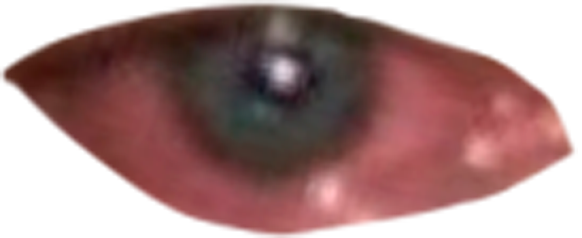
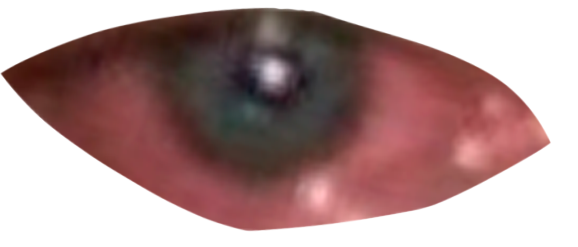
Finalización de filtro de ojos

diff --git a/Eye_filter/Crying_eyes.py b/Eye_filter/Crying_eyes.py
@@ -9,13 +9,15 @@ left_eye = cv2.imread("ojo_izq.png")
 right_eye = cv2.imread("ojo_der.png")
 _, frame = cap.read()
 rows, cols, _ = frame.shape
-nose_mask = np.zeros((rows, cols), np.uint8)
+l_eye_mask = np.zeros((rows, cols), np.uint8)
+r_eye_mask = np.zeros((rows, cols), np.uint8)
 # Loading Face detector
 detector = dlib.get_frontal_face_detector()
 predictor = dlib.shape_predictor("shape_predictor_68_face_landmarks.dat")
 while True:
     _, frame = cap.read()
-    nose_mask.fill(0)
+    l_eye_mask.fill(0)
+    r_eye_mask.fill(0)
     gray_frame = cv2.cvtColor(frame, cv2.COLOR_BGR2GRAY)
     faces = detector(frame)
     for face in faces:
@@ -26,44 +28,57 @@ while True:
         left_left_eye = (landmarks.part(42).x, landmarks.part(42).y)
         right_left_eye = (landmarks.part(45).x, landmarks.part(45).y)
 
-        left_eye_width = round(abs(left_left_eye[0] - right_left_eye[0] * 1.02))
-        left_eye_height = round(abs(top_left_eye[1] - bot_left_eye[1] * 1.02))
+        left_eye_width = round(abs(left_left_eye[0] - right_left_eye[0] * 1.05))
+        left_eye_height = round(abs(top_left_eye[1] - bot_left_eye[1] * 1.05))
 
         top_right_eye = (landmarks.part(38).x, landmarks.part(38).y)
         bot_right_eye = (landmarks.part(40).x, landmarks.part(40).y)
         left_right_eye = (landmarks.part(36).x, landmarks.part(36).y)
         right_right_eye = (landmarks.part(39).x, landmarks.part(39).y)
 
-        right_eye_width = round(abs(left_right_eye[0] - right_right_eye[0] * 1.02))
-        right_eye_height = round(abs(top_right_eye[1] - bot_right_eye[1] * 1.02))
+        right_eye_width = round(abs(left_right_eye[0] - right_right_eye[0] * 1.05))
+        right_eye_height = round(abs(top_right_eye[1] - bot_right_eye[1] * 1.05))
         # New left nose position
-        left_e_top_left = (left_left_eye[0]), int((right_left_eye[1] + left_eye_height / 2))
-        left_e_bottom_right = (right_left_eye[0]), int((right_left_eye[1] - left_eye_height / 2))
+        left_e_top_left = (left_left_eye[0]), int((right_left_eye[1] - left_eye_height / 2))
+        left_e_bottom_right = (right_left_eye[0]), int((right_left_eye[1] + left_eye_height / 2))
         # New right nose position
-        right_e_top_left = int((left_right_eye[0])), int((right_right_eye[1] + right_eye_height / 2))
-        right_e_bottom_right = int((right_right_eye[0])), int((right_right_eye[1] - right_eye_height / 2))
+        right_e_top_left = (left_right_eye[0]), int((right_right_eye[1] - right_eye_height / 2))
+        right_e_bottom_right = (right_right_eye[0]), int((right_right_eye[1] + right_eye_height / 2))
 
         # Adding the new left eye
 
         l_eye = cv2.resize(left_eye, (left_eye_width, left_eye_height))
+        r_eye = cv2.resize(right_eye, (right_eye_width, right_eye_height))
         l_eye_gray = cv2.cvtColor(l_eye, cv2.COLOR_BGR2GRAY)
-        _, l_eye_mask = cv2.threshold(l_eye_gray, 254, 255, cv2.THRESH_BINARY)
-        _, l_eye_mask_inv = cv2.threshold(l_eye_gray, 254, 255, cv2.THRESH_BINARY_INV)
+        r_eye_gray = cv2.cvtColor(r_eye, cv2.COLOR_BGR2GRAY)
+        _, l_eye_mask = cv2.threshold(l_eye_gray, 200, 255, cv2.THRESH_BINARY)
+        _, l_eye_mask_inv = cv2.threshold(l_eye_gray, 200, 255, cv2.THRESH_BINARY_INV)
 
-        l_eye_area = frame[left_e_top_left[1]: left_e_top_left[1] - left_eye_height,
+        _, r_eye_mask = cv2.threshold(r_eye_gray, 200, 255, cv2.THRESH_BINARY)
+        _, r_eye_mask_inv = cv2.threshold(r_eye_gray, 200, 255, cv2.THRESH_BINARY_INV)
+
+        l_eye_area = frame[left_e_top_left[1]: left_e_top_left[1] + left_eye_height,
                            left_e_top_left[0]: left_e_top_left[0] + left_eye_width]
+        r_eye_area = frame[right_e_top_left[1]: right_e_top_left[1] + right_eye_height,
+                           right_e_top_left[0]: right_e_top_left[0] + right_eye_width]
         cv2.imshow("l_eye_mask", l_eye_mask)
-
         l_eye_area_no_eye = cv2.bitwise_and(l_eye_area, l_eye_area, mask = l_eye_mask)
         l_eye_no_back = cv2.bitwise_and(l_eye, l_eye, mask=l_eye_mask_inv)
+
+        r_eye_area_no_eye = cv2.bitwise_and(r_eye_area, r_eye_area, mask=r_eye_mask)
+        r_eye_no_back = cv2.bitwise_and(r_eye, r_eye, mask=r_eye_mask_inv)
+
         cv2.imshow("l_Eye no eye", l_eye_area_no_eye)
         final_l_eye = cv2.add(l_eye_no_back, l_eye_area_no_eye)
-        #cv2.imshow("Nose area", l_eye_area)
+        final_r_eye = cv2.add(r_eye_no_back, r_eye_area_no_eye)
+        cv2.imshow("Nose area", l_eye_area)
 
-        #frame[left_e_top_left[1]: left_e_top_left[1] + left_eye_height,
-        #      left_e_top_left[0]: left_e_top_left[0] + left_eye_width] = final_nose
+        frame[left_e_top_left[1]: left_e_top_left[1] + left_eye_height,
+              left_e_top_left[0]: left_e_top_left[0] + left_eye_width] = final_l_eye
+        frame[right_e_top_left[1]: right_e_top_left[1] + right_eye_height,
+              right_e_top_left[0]: right_e_top_left[0] + right_eye_width] = final_r_eye
         cv2.imshow("Nose pig", l_eye)
-        #cv2.imshow("final nose", final_l_eye)
+        cv2.imshow("final nose", final_l_eye)
     cv2.imshow("Frame", frame)
     key = cv2.waitKey(1)
     if key == 27:
